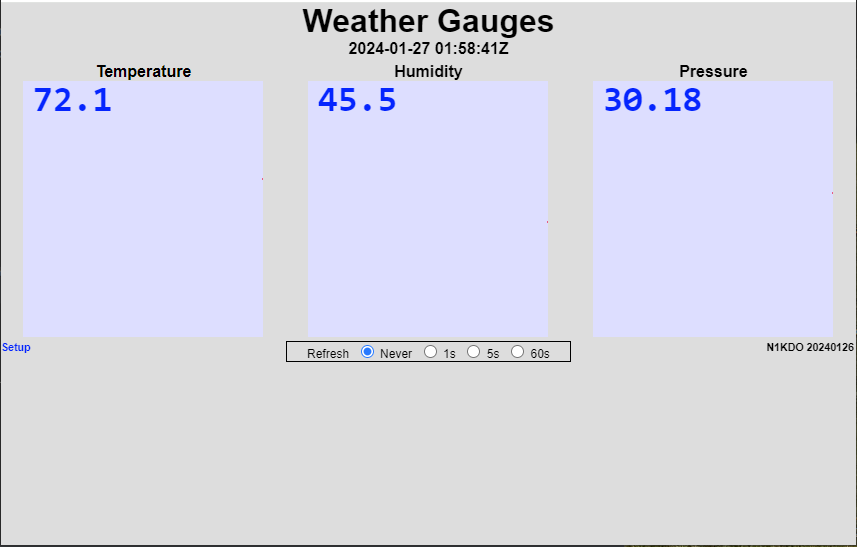
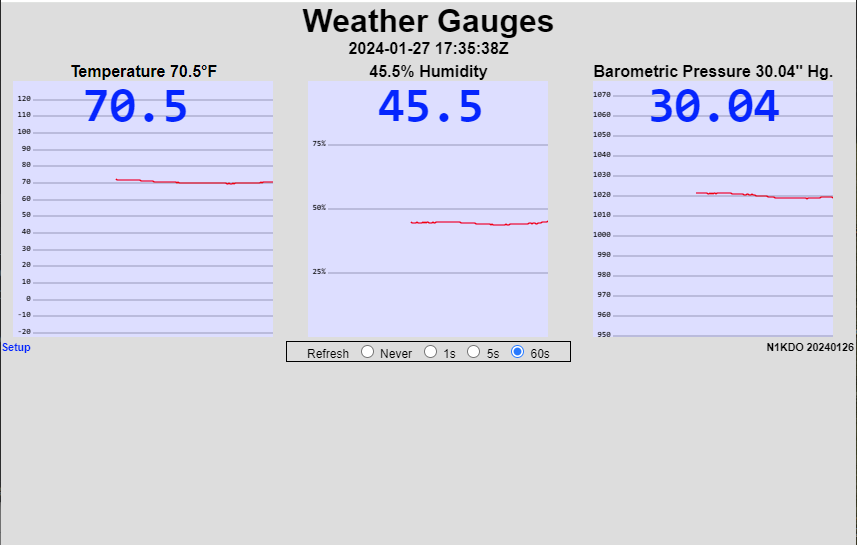
file rename improvements
update 60 sec by default
add favicon

diff --git a/src/temperature/content/files.html b/src/temperature/content/files.html
@@ -98,7 +98,6 @@
     }
 </style>
 <script>
-
     function page_load() {
         document.getElementById("upload_button").disabled = true;
         get_files();
@@ -212,7 +211,7 @@
 
     function rename_file(filename) {
         if (filename !== undefined) {
-        let newname = prompt('enter new name for "' + filename + '"');
+        let newname = prompt('enter new name for "' + filename + '"', filename);
             let payload = {};
             payload.filename = filename;
             payload.newname = newname

diff --git a/src/temperature/content/temperature.html b/src/temperature/content/temperature.html
@@ -86,7 +86,7 @@
     let last_pressure = 0;
     let timestamp = "";
 
-    let update_secs = 0;
+    let update_secs = 60;
     let update_timeout = 0;
 
     function page_load() {

diff --git a/src/temperature/http_server.py b/src/temperature/http_server.py
@@ -270,6 +270,13 @@ def valid_filename(filename):
     return True
 
 
+def file_size(filename):
+    try:
+        return os.stat(filename)[6]
+    except OSError:
+        return -1
+
+
 # noinspection PyUnusedLocal
 async def api_get_files_callback(http, verb, args, reader, writer, request_headers=None):
     if verb == 'GET':
@@ -313,7 +320,6 @@ async def api_upload_file_callback(http, verb, args, reader, writer, request_hea
             more_bytes = True
             leftover_bytes = []
             while more_bytes:
-                # print('waiting for read')
                 buffer = await reader.read(HttpServer.BUFFER_SIZE)
                 remaining_content_length -= len(buffer)
                 if remaining_content_length == 0:  # < BUFFER_SIZE:
@@ -349,7 +355,6 @@ async def api_upload_file_callback(http, verb, args, reader, writer, request_hea
                                 end -= 3
                         output_file.write(buffer[start:end])
                         if not writing_file:
-                            # print('closing file')
                             state = http.MP_END_BOUND
                             output_file.close()
                             output_file = None
@@ -381,8 +386,6 @@ async def api_upload_file_callback(http, verb, args, reader, writer, request_hea
                                         http_status = 500
                                         more_bytes = False
                                         start = len(buffer)
-                            # else:
-                            #     print('processing headers, got ' + line)
                         elif state == http.MP_END_BOUND:
                             if line == end_boundary:
                                 state = http.MP_START_BOUND
@@ -407,13 +410,13 @@ async def api_remove_file_callback(http, verb, args, reader, writer, request_hea
         try:
             os.remove(filename)
             http_status = 200
-            response = b'removed\r\n'
+            response = f'removed {filename}'.encode('utf-8')
         except OSError as ose:
             http_status = 409
             response = str(ose).encode('utf-8')
     else:
         http_status = 409
-        response = b'bad file name\r\n'
+        response = b'bad file name'
     bytes_sent = http.send_simple_response(writer, http_status, http.CT_APP_JSON, response)
     return bytes_sent, http_status
 
@@ -425,17 +428,21 @@ async def api_rename_file_callback(http, verb, args, reader, writer, request_hea
     if valid_filename(filename) and valid_filename(newname):
         filename = http.content_dir + filename
         newname = http.content_dir + newname
-        try:
-            os.remove(newname)
-        except OSError:
-            pass  # swallow exception.
-        try:
-            os.rename(filename, newname)
-            http_status = 200
-            response = b'renamed\r\n'
-        except Exception as ose:
+        if file_size(newname) >= 0:
             http_status = 409
-            response = str(ose).encode('utf-8')
+            response = f'new file {newname} already exists'.encode('utf-8')
+        else:
+            try:
+                os.remove(newname)
+            except OSError:
+                pass  # swallow exception.
+            try:
+                os.rename(filename, newname)
+                http_status = 200
+                response = f'renamed {filename} to {newname}'.encode('utf-8')
+            except Exception as ose:
+                http_status = 409
+                response = str(ose).encode('utf-8')
     else:
         http_status = 409
         response = b'bad file name'

diff --git a/src/loader/loader.py b/src/loader/loader.py
@@ -24,6 +24,7 @@ FILES_LIST = [
     'ntp.py',
     'picow_network.py',
     'utils.py',
+    'content/favicon.ico',
     'content/files.html',
     'content/temperature.html',
     'content/setup.html',
